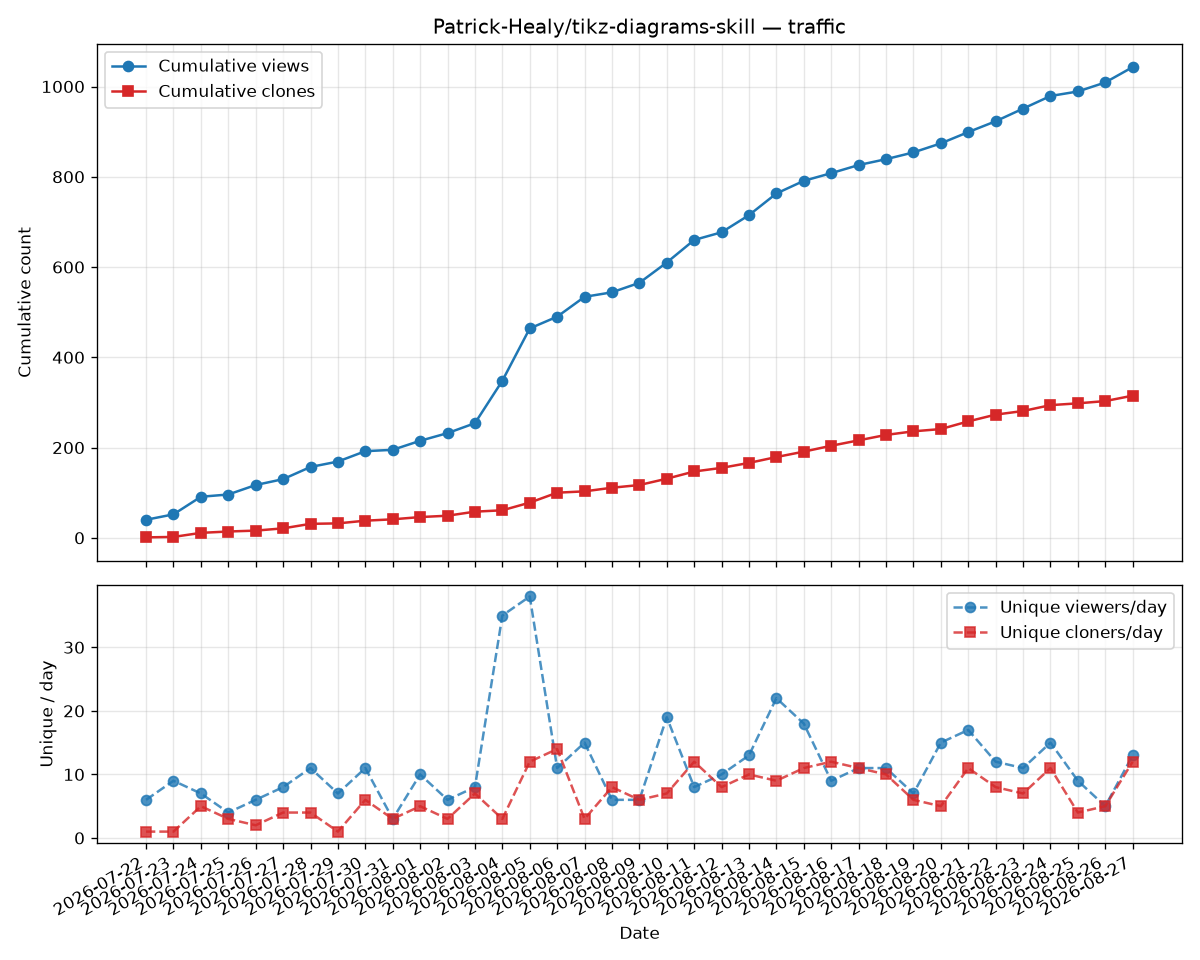
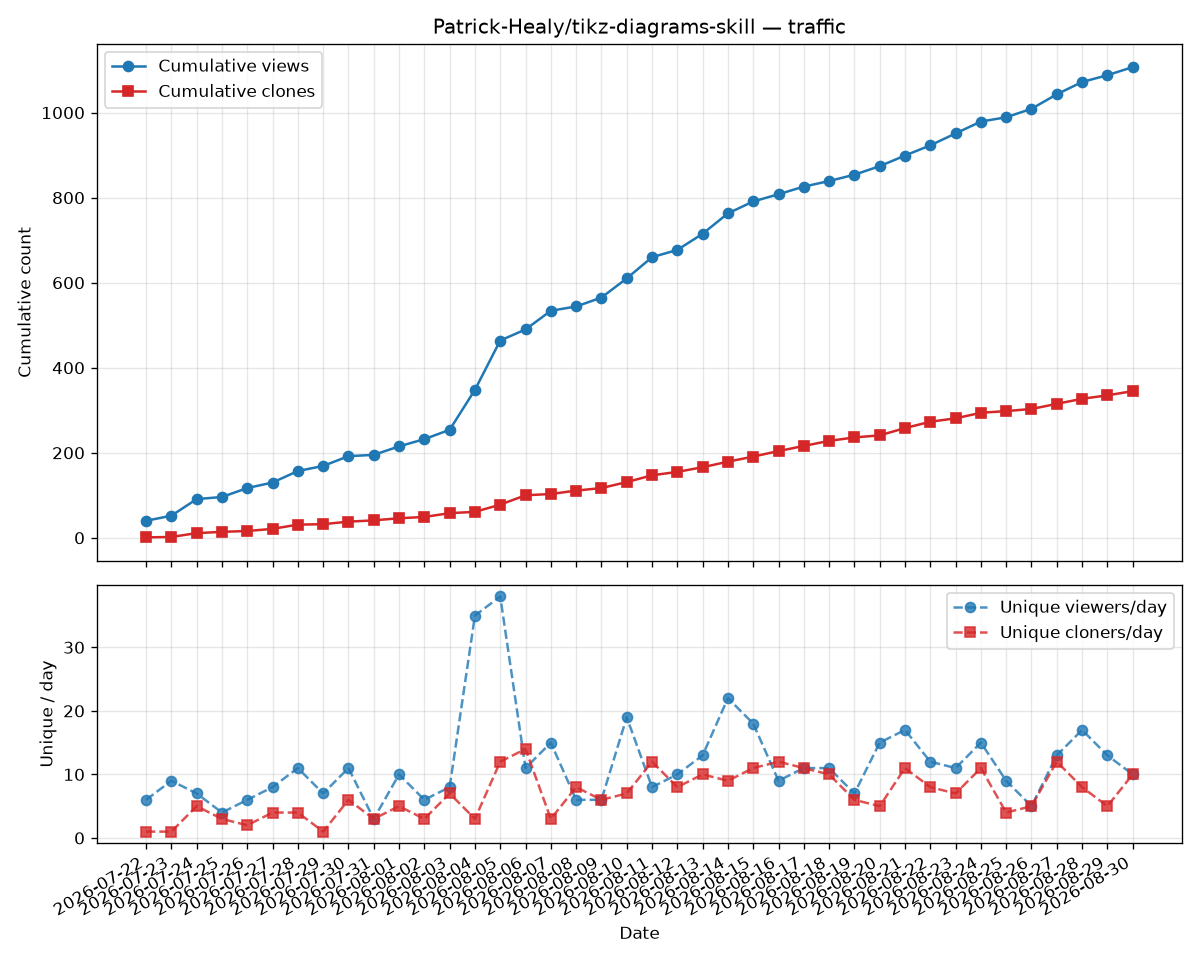
chore: update traffic stats [skip ci]

diff --git a/traffic/TRAFFIC.md b/traffic/TRAFFIC.md
@@ -43,7 +43,10 @@ window, so cross-day sums would double-count returning visitors).
 | 2026-08-25 | 10 | 989 | 9 | 4 | 298 | 4 |
 | 2026-08-26 | 20 | 1009 | 5 | 5 | 303 | 5 |
 | 2026-08-27 | 34 | 1043 | 13 | 12 | 315 | 12 |
+| 2026-08-28 | 29 | 1072 | 17 | 12 | 327 | 8 |
+| 2026-08-29 | 16 | 1088 | 13 | 8 | 335 | 5 |
+| 2026-08-30 | 19 | 1107 | 10 | 10 | 345 | 10 |
 
-**Totals:** 1043 cumulative views · 315 cumulative clones
+**Totals:** 1107 cumulative views · 345 cumulative clones
 
 ![cumulative traffic](cumulative.png)
